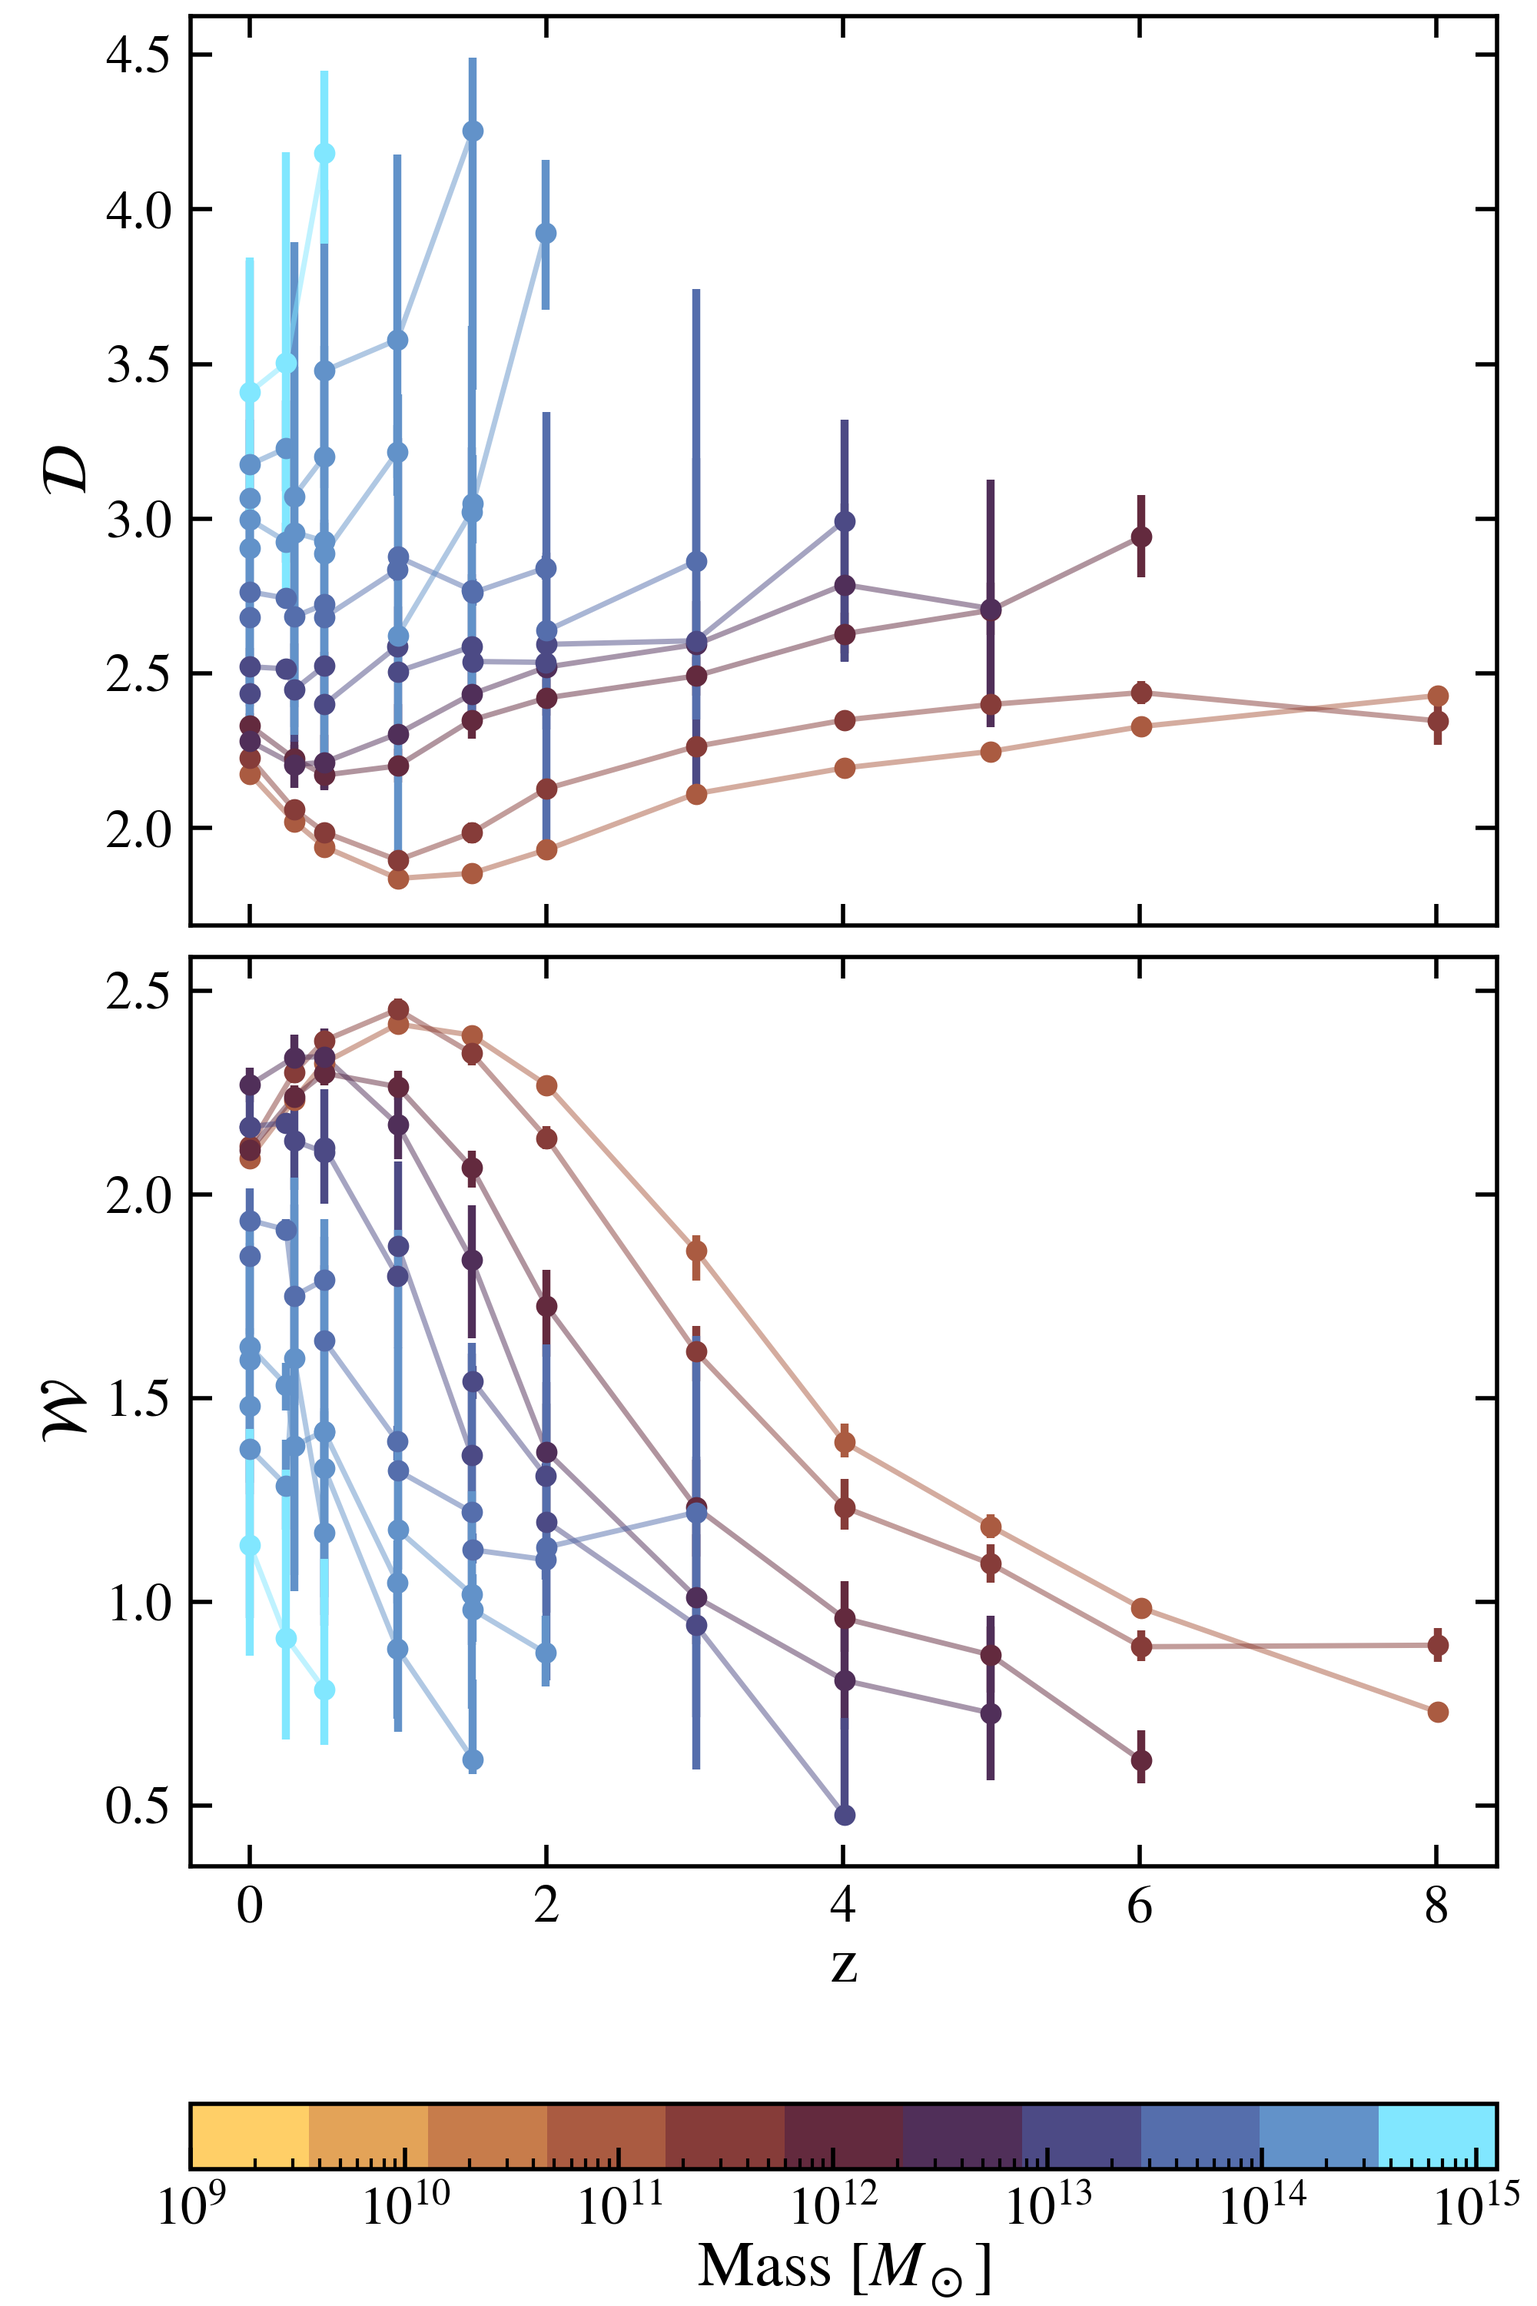
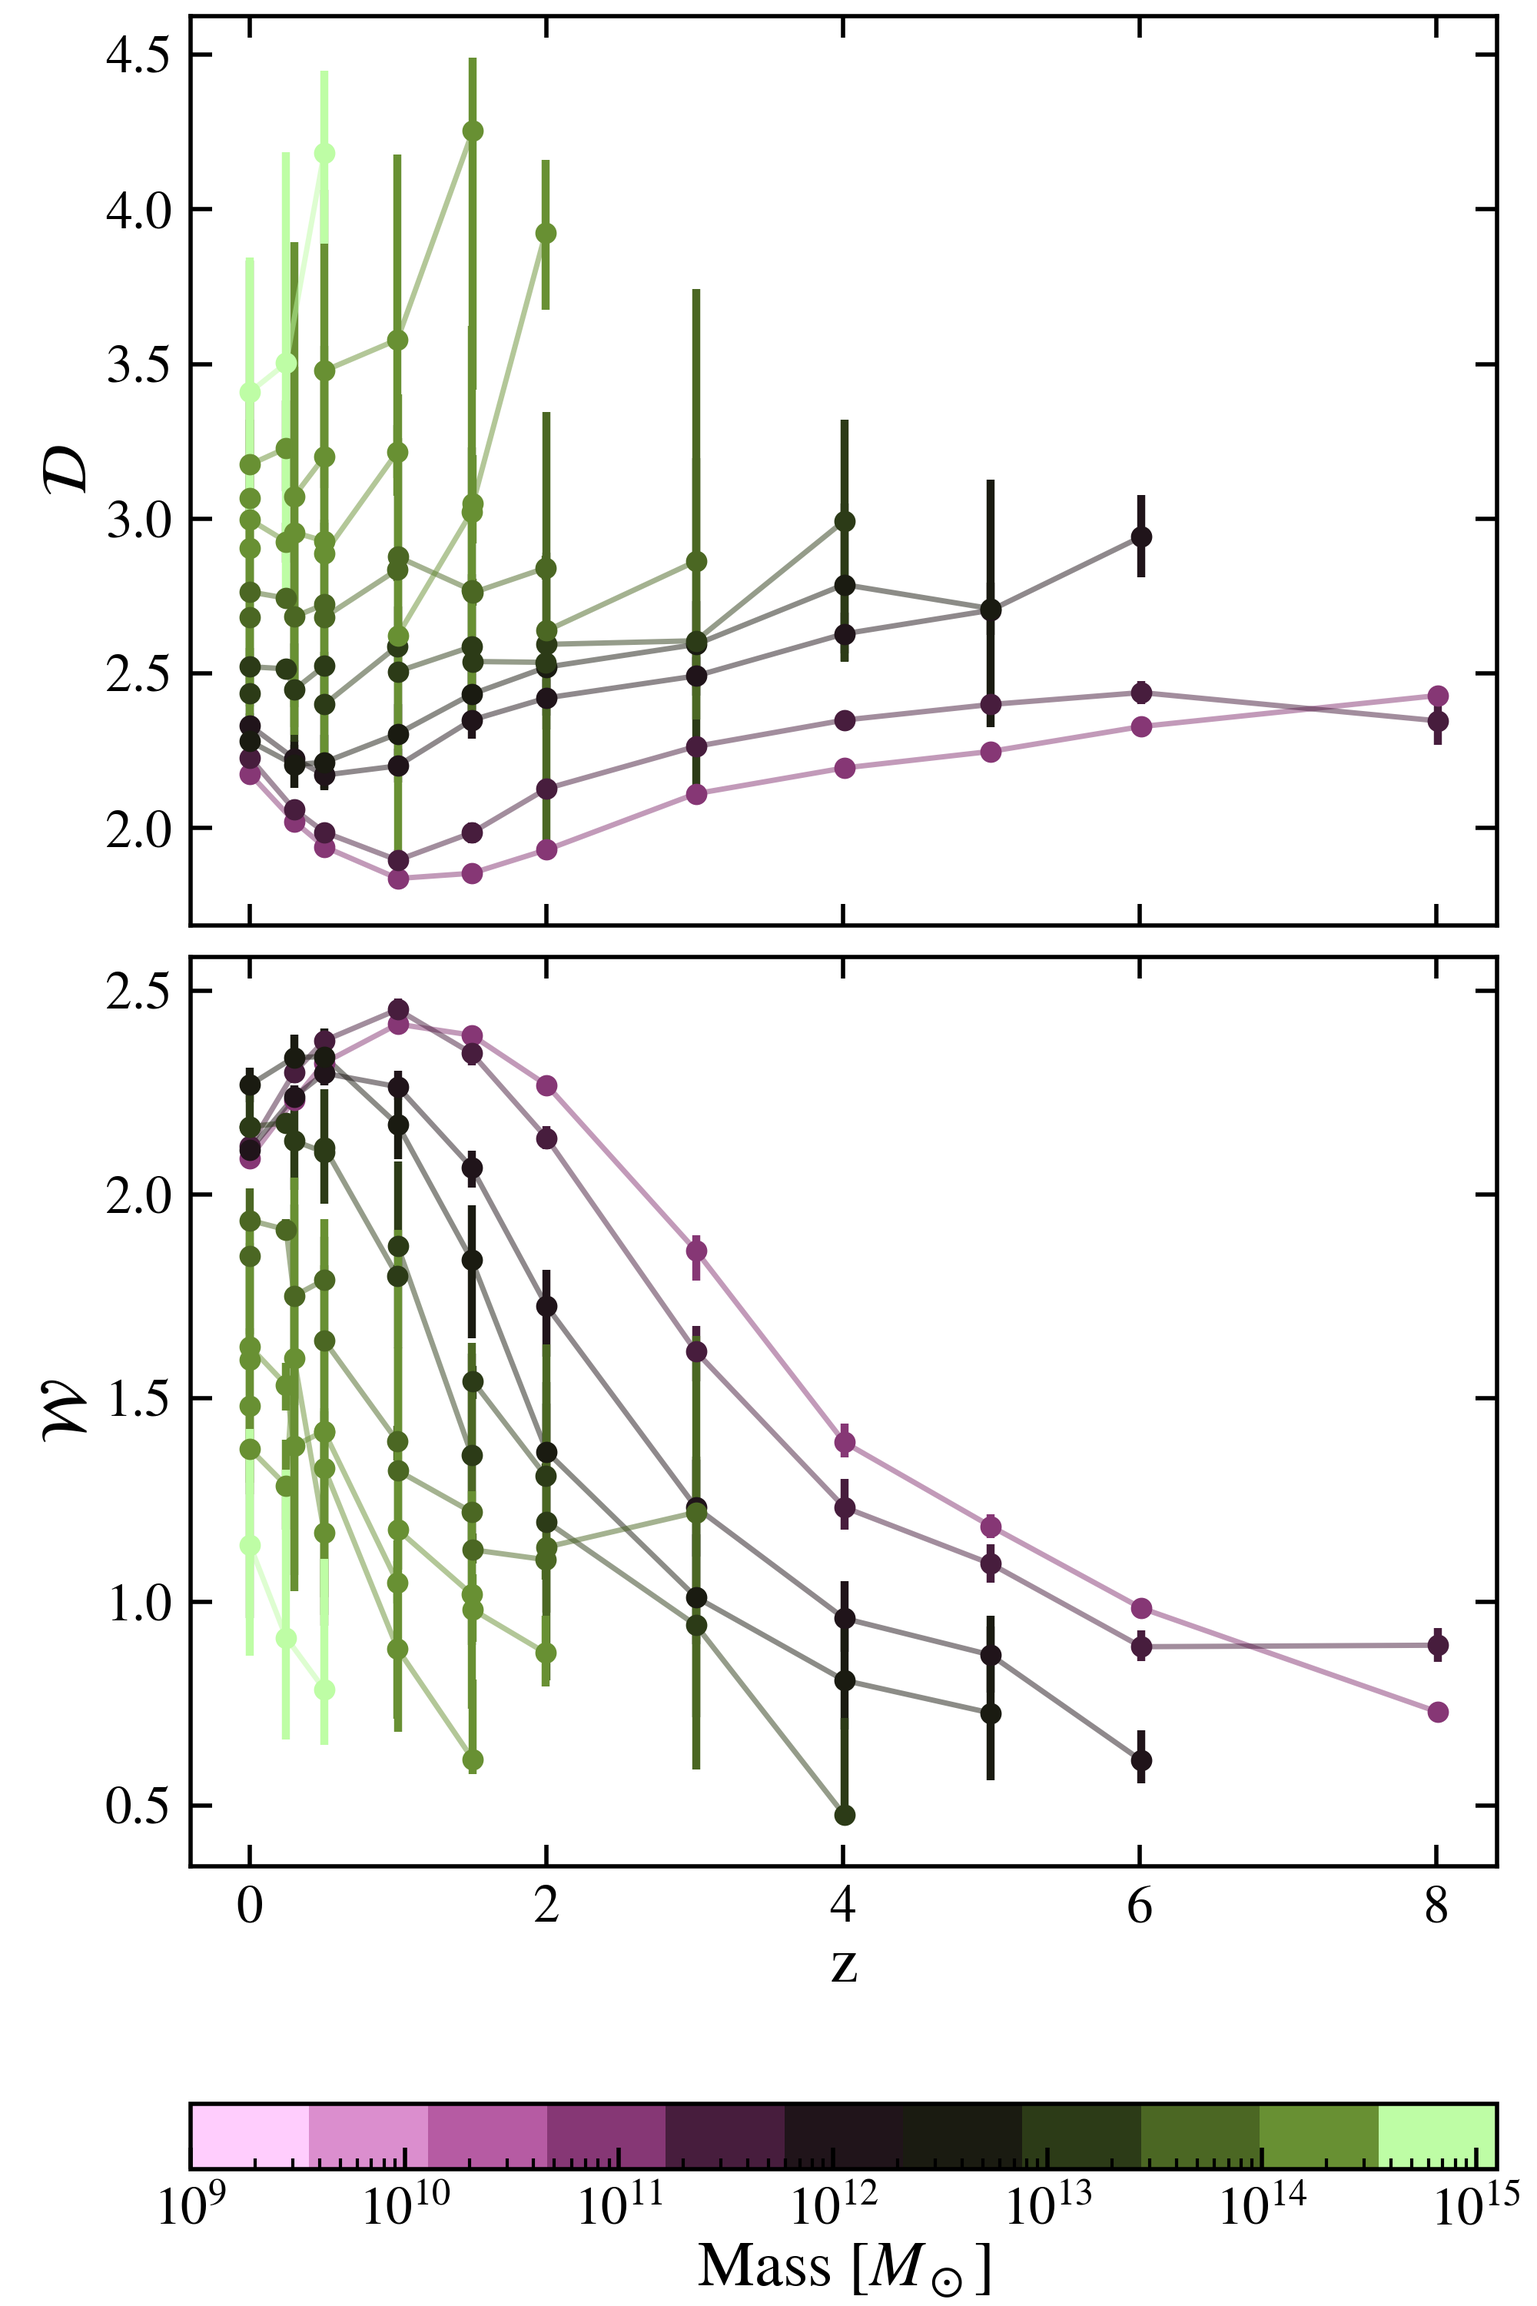
add plots

diff --git a/code/paper_plot/fig2_1.py b/code/paper_plot/fig2_1.py
@@ -1,0 +1,106 @@
+""""This script plots depth (top panel) and width (bottom panel) as a function of mass at z = 0.
+    Hydro-simulations only."""
+
+import os
+import numpy as np
+from func import load_all_z
+from matplotlib import cm
+from matplotlib import pyplot as plt 
+from matplotlib.colors import BoundaryNorm
+plt.style.use('code/style.mplstyle')
+
+print('')
+print('>>> Plot physical width vs mass at z = 0 <<<')
+print('')
+
+# ============================================================================================
+# Load data
+# ============================================================================================
+
+root_dir = 'result/bootstrap_stats_phys/'
+
+# Load TNG300
+TNG300_dir = f'{root_dir}/TNG300/sim_205_1250_Hydro/Nboots_1024/'
+TNG300_snap = 99
+TNG300_data = np.load(f'{TNG300_dir}/snap_{TNG300_snap}_Rsp_stats.npy', allow_pickle=True).item()
+
+TNG300_z             = np.round(TNG300_data['z'], 3)
+TNG300_mass_bins     = TNG300_data['mass_bins']
+TNG300_final_results = TNG300_data['final_results']
+
+TNG300_snaps = [99, 78, 67, 50, 40, 33, 25, 21, 17, 13, 8]
+all_z = load_all_z(TNG300_dir, TNG300_snaps)
+
+# Load MTNG
+MTNG_dir = f'{root_dir}/MTNG/Hydro-Arepo/MTNG-L500-4320-A/Nboots_1024/'
+MTNG_snaps = 264
+MTNG_data = np.load(f'{MTNG_dir}//snap_{MTNG_snaps}_Rsp_stats.npy', allow_pickle=True).item()
+
+MTNG_z             = np.round(MTNG_data['z'], 3)
+MTNG_mass_bins     = MTNG_data['mass_bins']
+MTNG_final_results = MTNG_data['final_results']
+
+print(TNG300_z, MTNG_z)
+
+min_mass = min(min(TNG300_mass_bins), min(MTNG_mass_bins))
+max_mass = max(max(TNG300_mass_bins), max(MTNG_mass_bins))
+print(min_mass, max_mass)
+num_mass_bins = int((max_mass - min_mass) / 0.5)
+print(num_mass_bins)
+
+# ============================================================================================
+# Set up the plot
+# ============================================================================================
+
+fig, axs = plt.subplots(1, 1, figsize=(4, 3.5), dpi=500, sharex=True, constrained_layout=True)
+
+cmap = plt.get_cmap('managua', len(all_z))
+bound = all_z
+norm = BoundaryNorm(bound, cmap.N)
+
+# ============================================================================================
+# Plot physical width
+# ============================================================================================
+
+# Plot TNG300
+feat_idx = 3
+for imass, mass in enumerate(TNG300_mass_bins):
+        
+        axs.plot(10**(10+mass), TNG300_final_results[imass, feat_idx, 1], color=cmap(norm(0)))
+        if imass < len(TNG300_mass_bins)-1:
+                axs.plot([10**(10+TNG300_mass_bins[imass]), 10**(10+TNG300_mass_bins[imass+1])], 
+                            [TNG300_final_results[imass, feat_idx, 1], TNG300_final_results[imass+1, feat_idx, 1]], 
+                             color=cmap(norm(0)) , lw=1) 
+        axs.errorbar(10**(10+mass), TNG300_final_results[imass, feat_idx, 1],
+                        yerr=[[TNG300_final_results[imass, feat_idx, 1]-TNG300_final_results[imass, feat_idx, 0]], 
+                                [TNG300_final_results[imass, feat_idx, 2]-TNG300_final_results[imass, feat_idx, 1]]],
+                        color=cmap(norm(0)) , fmt='.')
+
+# Plot MTNG
+for imass, mass in enumerate(MTNG_mass_bins):
+        
+        axs.plot(10**(10+mass), MTNG_final_results[imass, feat_idx, 1], color=cmap(norm(0)))
+        if imass < len(MTNG_mass_bins)-1:
+                axs.plot([10**(10+MTNG_mass_bins[imass]), 10**(10+MTNG_mass_bins[imass+1])], 
+                            [MTNG_final_results[imass, feat_idx, 1], MTNG_final_results[imass+1, feat_idx, 1]],
+                             color=cmap(norm(0)) , lw=1)
+        axs.errorbar(10**(10+mass), MTNG_final_results[imass, feat_idx, 1],
+                        yerr=[[MTNG_final_results[imass, feat_idx, 1]-MTNG_final_results[imass, feat_idx, 0]],
+                                [MTNG_final_results[imass, feat_idx, 2]-MTNG_final_results[imass, feat_idx, 1]]],
+                        color=cmap(norm(0)), fmt='.')
+
+axs.set_xscale('log')
+axs.set_xlabel('Mass [$M_\\odot$]')
+axs.set_ylabel(r"$\mathcal{W}$ [kpc]")
+axs.set_xlim(10**(10+min_mass), 10**(10+max_mass))
+
+# ============================================================================================
+# Save the plot
+# ============================================================================================
+
+save_dir = f'result/paper_plots/'
+if not os.path.exists(save_dir):
+    os.makedirs(save_dir)
+
+plt.savefig(f'{save_dir}/fig2_1.png')
+plt.close()

diff --git a/code/paper_plot/fig3_1.py b/code/paper_plot/fig3_1.py
@@ -1,4 +1,5 @@
-""""This script plots depth (top panel) and width (bottom panel) as a function of mass for a few redshifts.
+""""This script plots depth (top panel) and width (bottom panel) as a function of characteristic 
+    mass for a few redshifts.
     Both Hydro and DM-only simulations."""
 
 import os
@@ -10,7 +11,7 @@ plt.style.use('code/style.mplstyle')
 from func import *
 
 print('')
-print('>>> Plot Depth and width vs mass for a few redshifts <<<')
+print('>>> Plot Depth and width vs charac mass for a few redshifts <<<')
 print('')
 
 root_dir = 'result/bootstrap_stats_phys/'
@@ -22,20 +23,22 @@ root_dir = 'result/bootstrap_stats_phys/'
 fig, axs = plt.subplots(2, 1, figsize=(4, 6), dpi=500, sharex=True, constrained_layout=True)
 
 # ============================================================================================
-# Set up the colorbar
+# Load data 
 # ============================================================================================
 
-TNG300_snaps = [99, 78, 67, 50, 40, 33, 25, 21, 17, 13, 8]
+# Load TNG300
 TNG300_dir = f'{root_dir}/TNG300/sim_205_1250_Hydro/Nboots_1024/'
-TNG300_z_i, TNG300_z_f = load_z(TNG300_dir, TNG300_snaps)
+TNG300_snaps = [99, 78, 67, 50, 40, 33, 25, 21, 17, 13, 8]
+TNG300_z, _, _ = load_data(TNG300_dir, TNG300_snaps)
 
 all_z = load_all_z(TNG300_dir, TNG300_snaps)
 
-MTNG_snaps = [264, 237, 214, 179, 151, 129]
+# Load MTNG
 MTNG_dir = f'{root_dir}/MTNG/Hydro-Arepo/MTNG-L500-4320-A/Nboots_1024/'
-MTNG_z_i, MTNG_z_f = load_z(MTNG_dir, MTNG_snaps)
+MTNG_snaps = [264, 237, 214, 179, 151, 129]
+MTNG_z, _, _ = load_data(MTNG_dir, MTNG_snaps)
 
-z_i, z_f = max(TNG300_z_i, MTNG_z_i), min(TNG300_z_f, MTNG_z_f)
+z_i, z_f = max(max(TNG300_z), max(MTNG_z)), min(min(TNG300_z), min(MTNG_z))
 print(z_i, z_f)
 
 # Set up the colorbar
@@ -104,22 +107,35 @@ for simu in simus:
         # Plot TNG300
         for snap in TNG300_snaps:
                 TNG300_dir = f'{root_dir}/TNG300/sim_205_1250_{simu}/Nboots_1024/'
-                TNG300_z, TNG300_mass_bins, TNG300_final_results = load_stats(TNG300_dir, snap)
-                plot_depth(TNG300_z, TNG300_mass_bins, TNG300_final_results, simu)
-                plot_width(TNG300_z, TNG300_mass_bins, TNG300_final_results, simu)
+                TNG300_z, _, TNG300_final_results = load_stats(TNG300_dir, snap)
+                print(TNG300_z)
+                # Compute the characteristic mass
+                # -----------------------------------------------------------------------------
+                Rsp = TNG300_final_results[:, 0, 1]
+                delta_rho = delta_c(TNG300_z)
+                TNG200_char = character_mass(Rsp, delta_rho)
+                # -----------------------------------------------------------------------------
+                plot_depth(TNG300_z, TNG200_char, TNG300_final_results, simu)
+                plot_width(TNG300_z, TNG200_char, TNG300_final_results, simu)
                 
         # Plot MTNG
         for snap in MTNG_snaps:
                 MTNG_dir = f'{root_dir}/MTNG/{simu}-Arepo/MTNG-L500-4320-A/Nboots_1024/'
-                MTNG_z, MTNG_mass_bins, MTNG_final_results = load_stats(MTNG_dir, snap)
-                plot_depth(MTNG_z, MTNG_mass_bins, MTNG_final_results, simu)
-                plot_width(MTNG_z, MTNG_mass_bins, MTNG_final_results, simu)
+                MTNG_z, _, MTNG_final_results = load_stats(MTNG_dir, snap)
+                # Compute the characteristic mass
+                # -----------------------------------------------------------------------------
+                Rsp = MTNG_final_results[:, 0, 1]
+                delta_rho = delta_c(MTNG_z)
+                MTNG_char = character_mass(Rsp, delta_rho)
+                # -----------------------------------------------------------------------------
+                plot_depth(MTNG_z, MTNG_char, MTNG_final_results, simu)
+                plot_width(MTNG_z, MTNG_char, MTNG_final_results, simu)
 
 axs[0].set_xscale('log')
 axs[0].set_ylabel(r"$\mathcal{D}$")
 
 axs[1].set_xscale('log')
-axs[1].set_xlabel('Mass [$M_\\odot$]')
+axs[1].set_xlabel('Characteristic Mass [$M_\\odot$]')
 axs[1].set_ylabel(r"$\mathcal{W}$")
 
 # ============================================================================================
@@ -130,5 +146,5 @@ save_dir = f'result/paper_plots/'
 if not os.path.exists(save_dir):
     os.makedirs(save_dir)
 
-plt.savefig(f'{save_dir}/fig3')
+plt.savefig(f'{save_dir}/fig3_1')
 plt.close()

diff --git a/code/paper_plot/fig5.py b/code/paper_plot/fig5.py
@@ -17,21 +17,17 @@ print('')
 root_dir = 'result/bootstrap_stats_phys/'
 
 # ============================================================================================
-# Loadd data 
+# Load data 
 # ============================================================================================
 
 # Load TNG300
 TNG300_dir = f'{root_dir}/TNG300/sim_205_1250_Hydro/Nboots_1024/'
-TNG300_list = os.listdir(TNG300_dir)
-
 TNG300_snaps = [99, 78, 67, 50, 40, 33, 25, 21, 17, 13, 8]
 
 TNG300_z, TNG300_bins, TNG300_data = load_data(TNG300_dir, TNG300_snaps)
 
 # Load MTNG
 MTNG_dir = f'{root_dir}/MTNG/Hydro-Arepo/MTNG-L500-4320-A/Nboots_1024/'
-MTNG_list = os.listdir(MTNG_dir)
-
 MTNG_snaps = [264, 237, 214, 179, 151, 129]
 
 MTNG_z, MTNG_bins, MTNG_data = load_data(MTNG_dir, MTNG_snaps)
@@ -54,7 +50,7 @@ fig, axs = plt.subplots(2, 1, figsize = (4, 6), dpi=500, sharex=True, constraine
 min_bin, max_bin = 9, 15
 num_bins = int((max_bin - min_bin)/0.5)
 
-cmap = plt.get_cmap('managua', num_bins)
+cmap = plt.get_cmap('vanimo', num_bins)
 # from matplotlib.colors import LinearSegmentedColormap
 # red_list = [# '#EE9D9F', '#DE6A69', 
 #             '#C84747', '#982B2D','#6A0624', '#3D011A'] # light to dark

diff --git a/code/bootstrap/3_bootstrap_tgt_phys.py b/code/bootstrap/3_bootstrap_tgt_phys.py
@@ -80,7 +80,7 @@ if not os.path.exists(save_data_dir):
     
 # Bootstrap setup
 Nsample, Nboots = args.Nsample, args.Nboots
-results = np.empty((num_bins, 4, Nboots))
+results = np.empty((num_bins, 5, Nboots))
 
 valid_boots = 0
 while valid_boots < Nboots: 
@@ -167,7 +167,7 @@ while valid_boots < Nboots:
                 width_dimless = fitted_radius[right_idx] - fitted_radius[left_idx]
                 
                 # Append results
-                results[i, :, valid_boots] = Rsp, depth, width_dimless, width
+                results[i, :, valid_boots] = Rsp, depth, width_dimless, width, min_grad
        
         ### Only the for loop is complete, update valid_boots
         else:
@@ -184,6 +184,7 @@ for i in range(num_bins):
     print(f'depth: {final_results[i, 1]}')
     print(f'width dimless: {final_results[i, 2]}')
     print(f'width physical: {final_results[i, 3]}')
+    print(f'depth absolute: {final_results[i, 4]}')
     print('')
     
 # Check the index of median value

diff --git a/code/paper_plot/fig6.py b/code/paper_plot/fig6.py
@@ -48,7 +48,7 @@ from matplotlib.colors import LinearSegmentedColormap
 #             '#C84747', '#982B2D','#6A0624', '#3D011A'] # light to dark
 # blue_list = ['#89CAEA','#4596CD', '#0B75B3', '#015696', '#012A61']
 # cmap = LinearSegmentedColormap.from_list('my_cmap', red_list)
-cmap = plt.get_cmap('vanimo', num_z)
+cmap = plt.get_cmap('managua', num_z)
 bound = all_z
 norm = BoundaryNorm(bound, cmap.N)
 cb = fig.colorbar(cm.ScalarMappable(norm=norm, cmap=cmap),

diff --git a/code/paper_plot/fig7.py b/code/paper_plot/fig7.py
@@ -49,7 +49,7 @@ num_z = len(TNG300_snaps)
 #             '#C84747', '#982B2D','#6A0624', '#3D011A'] # light to dark
 # blue_list = ['#89CAEA','#4596CD', '#0B75B3', '#015696', '#012A61']
 # cmap = LinearSegmentedColormap.from_list('my_cmap', red_list)
-cmap = plt.get_cmap('vanimo', num_z)
+cmap = plt.get_cmap('managua', num_z)
 bound = all_z
 norm = BoundaryNorm(bound, cmap.N)
 cb = fig.colorbar(cm.ScalarMappable(norm=norm, cmap=cmap),

diff --git a/code/paper_plot/fig4.py b/code/paper_plot/fig4.py
@@ -53,7 +53,7 @@ fig, axs = plt.subplots(2, 1, figsize = (4, 6), dpi=500, sharex=True, constraine
 min_bin, max_bin = 9, 15
 num_bins = int((max_bin - min_bin)/0.5)
 
-cmap = plt.get_cmap('managua', num_bins)
+cmap = plt.get_cmap('vanimo', num_bins)
 # from matplotlib.colors import LinearSegmentedColormap
 # red_list = [# '#EE9D9F', '#DE6A69', 
 #             '#C84747', '#982B2D','#6A0624', '#3D011A'] # light to dark

diff --git a/code/paper_plot/fig2.py b/code/paper_plot/fig2.py
@@ -54,7 +54,7 @@ print(num_mass_bins)
 
 fig, axs = plt.subplots(2, 1, figsize=(4, 6), dpi=500, sharex=True, constrained_layout=True)
 
-cmap = plt.get_cmap('vanimo', len(all_z))
+cmap = plt.get_cmap('managua', len(all_z))
 bound = all_z
 norm = BoundaryNorm(bound, cmap.N)
 
